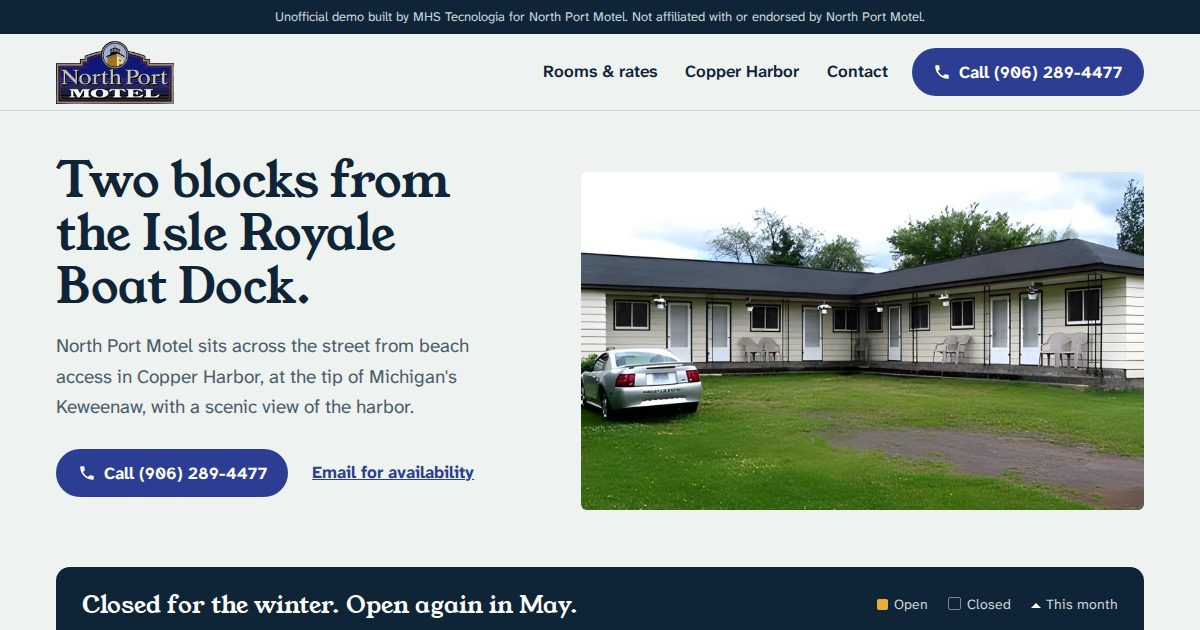
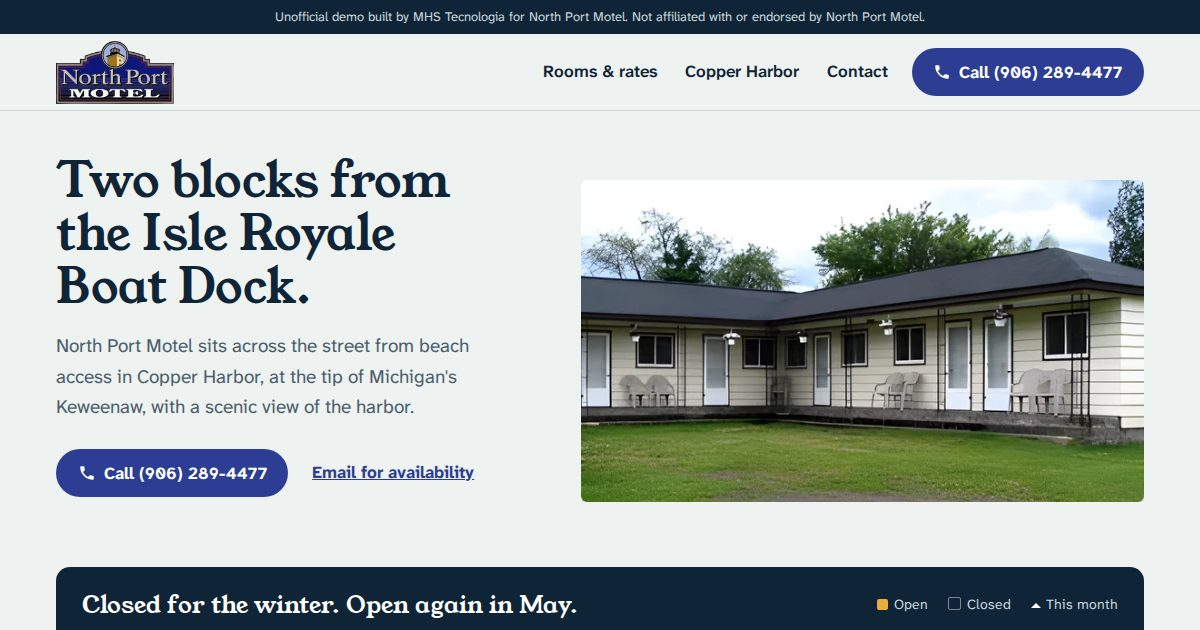
Previews: 135 ativos

Changed region(s): [[0.4625, 0.2714, 0.9558, 0.8143]]

diff --git a/northport-motel-copper-harbor-mi/index.html b/northport-motel-copper-harbor-mi/index.html
@@ -10,8 +10,7 @@
 <link rel="icon" href="favicon.png" type="image/png">
 <link rel="apple-touch-icon" href="apple-touch-icon.png">
 <link rel="preload" href="fonts/youngserif.woff2" as="font" type="font/woff2" crossorigin>
-<link rel="preload" as="image" href="img/exterior-m-640.webp" imagesrcset="img/exterior-m-640.webp 640w" imagesizes="calc(100vw - 32px)" media="(max-width: 760px)" fetchpriority="high">
-<link rel="preload" as="image" href="img/exterior-800.webp" media="(min-width: 761px)" fetchpriority="high">
+<link rel="preload" as="image" href="img/exterior-620.webp" imagesrcset="img/exterior-620.webp 620w" imagesizes="(max-width: 760px) calc(100vw - 32px), 563px" fetchpriority="high">
 <style>@font-face{font-family:"Young Serif";font-weight:400;font-display:swap;src:url(fonts/youngserif.woff2) format("woff2")}
 @font-face{font-family:"Atkinson Next";font-weight:400 700;font-display:swap;src:url(fonts/atkinson.woff2) format("woff2")}
 /* From their sign: the deep lake behind it, the royal blue field, the lit
@@ -92,7 +91,7 @@ p{margin:0 0 1rem}
 .photo figcaption{font-size:.875rem;color:var(--slate);margin-top:.6rem}
 @media (max-width:760px){
   .hero{padding:1.5rem 0 2.5rem}
-  .hero .wrap{grid-template-columns:1fr;grid-template-areas:'t' 'b' 'p';row-gap:1.25rem}
+  .hero .wrap{grid-template-columns:1fr;grid-template-areas:'t' 'p' 'b';row-gap:1rem}
   .hb .board{padding:.85rem .85rem .75rem}.hb .status{font-size:1.0625rem;margin-bottom:.6rem}.hb .months{padding-bottom:1.1rem}.hb .legend{font-size:.8125rem}
   .hero h1{font-size:2.1rem;margin-bottom:.75rem}
   .lede{font-size:1rem;line-height:1.55;margin-bottom:1rem}
@@ -140,10 +139,9 @@ p{margin:0 0 1rem}
 .page h1{font-size:clamp(2.1rem,4vw,3.2rem);margin-bottom:.9rem}
 .page .lede{margin-bottom:0}
 .grid2{display:grid;grid-template-columns:1fr 1fr;gap:1.25rem}
-.grid2.tall{grid-template-rows:auto auto}
-.grid2 .span{grid-row:span 2}
-.grid2 .span img{height:100%;object-fit:cover}
-@media (max-width:760px){.grid2{grid-template-columns:1fr}.grid2 .span{grid-row:auto}}
+.shower{margin-top:2.5rem;align-items:center}
+.shower p{color:var(--slate)}
+@media (max-width:760px){.grid2{grid-template-columns:1fr}.shower{margin-top:2rem}}
 .sub{display:grid;grid-template-columns:4fr 8fr;gap:3rem;align-items:baseline;margin-bottom:1.5rem}
 .sub p{color:var(--slate)}
 @media (max-width:760px){.sub{grid-template-columns:1fr;gap:1.25rem}}
@@ -153,8 +151,6 @@ p{margin:0 0 1rem}
 .big{font-family:var(--serif);font-size:clamp(2rem,5vw,3.25rem);line-height:1.1;color:var(--sign);text-decoration:none;display:inline-block;margin:.25rem 0 1rem}
 .big:hover{text-decoration:underline;text-decoration-thickness:2px}
 address{font-style:normal;font-size:1.1875rem;line-height:1.5}
-.sign{display:flex;gap:1.25rem;align-items:flex-end;margin-top:2rem}
-.sign img{border-radius:6px;width:241px}
 @media (max-width:760px){.contact{grid-template-columns:1fr;gap:2rem}}
 
 /* footer */
@@ -208,23 +204,20 @@ address{font-style:normal;font-size:1.1875rem;line-height:1.5}
   <p class="legend"><span class="lo">Open</span><span class="lc">Closed</span><span class="ln">This month</span></p>
 </div></div></div>
     <figure class="photo hp">
-      <picture>
-        <source media="(max-width: 760px)" srcset="img/exterior-m-640.webp 640w" sizes="calc(100vw - 32px)" width="640" height="480">
-        <img src="img/exterior-800.webp" width="800" height="480" alt="The North Port Motel: a single-story row of rooms with white doors and porch chairs, facing a lawn" fetchpriority="high">
-      </picture>
+      <img src="img/exterior-620.webp" width="620" height="354" alt="The North Port Motel: a single-story row of rooms with white doors and porch chairs, facing a lawn" fetchpriority="high">
     </figure>
   </div>
 </section>
 <section class="sec">
   <div class="wrap walk">
     <div>
-      <h2>Park once. Walk everywhere.</h2>
-      <p>The motel is centrally located, so the boat dock, the beach and town are all on foot from your door.</p>
+      <h2>Centrally located</h2>
+      <p>The motel is within short walking distance of shops and restaurants, and a short distance from the lighthouse ferry dock at the Marina.</p>
     </div>
     <ol class="route">
   <li><b>Across the street</b><span>Beach access, with a scenic view of the harbor</span></li>
   <li><b>2 blocks</b><span>The Isle Royale Boat Dock</span></li>
-  <li><b>A short walk</b><span>Shops and restaurants</span></li>
+  <li><b>Short walking distance</b><span>Shops and restaurants</span></li>
   <li><b>A short distance</b><span>The lighthouse ferry dock, at the Marina</span></li>
 </ol>
   </div>
@@ -243,7 +236,7 @@ address{font-style:normal;font-size:1.1875rem;line-height:1.5}
     </div>
     <div><table class="rates">
   <caption>Rates</caption>
-  <thead><tr><th scope="col">Room</th><th scope="col">Summer</th><th scope="col">Fall off season</th></tr></thead>
+  <thead><tr><th scope="col">Room</th><th scope="col">Summer &amp; fall</th><th scope="col">Off season</th></tr></thead>
   <tbody>
     <tr><th scope="row">Single</th><td>$65</td><td>$60</td></tr>
     <tr><th scope="row">Double</th><td>$75</td><td>$70</td></tr>

diff --git a/northport-motel-copper-harbor-mi/contact.html b/northport-motel-copper-harbor-mi/contact.html
@@ -90,7 +90,7 @@ p{margin:0 0 1rem}
 .photo figcaption{font-size:.875rem;color:var(--slate);margin-top:.6rem}
 @media (max-width:760px){
   .hero{padding:1.5rem 0 2.5rem}
-  .hero .wrap{grid-template-columns:1fr;grid-template-areas:'t' 'b' 'p';row-gap:1.25rem}
+  .hero .wrap{grid-template-columns:1fr;grid-template-areas:'t' 'p' 'b';row-gap:1rem}
   .hb .board{padding:.85rem .85rem .75rem}.hb .status{font-size:1.0625rem;margin-bottom:.6rem}.hb .months{padding-bottom:1.1rem}.hb .legend{font-size:.8125rem}
   .hero h1{font-size:2.1rem;margin-bottom:.75rem}
   .lede{font-size:1rem;line-height:1.55;margin-bottom:1rem}
@@ -138,10 +138,9 @@ p{margin:0 0 1rem}
 .page h1{font-size:clamp(2.1rem,4vw,3.2rem);margin-bottom:.9rem}
 .page .lede{margin-bottom:0}
 .grid2{display:grid;grid-template-columns:1fr 1fr;gap:1.25rem}
-.grid2.tall{grid-template-rows:auto auto}
-.grid2 .span{grid-row:span 2}
-.grid2 .span img{height:100%;object-fit:cover}
-@media (max-width:760px){.grid2{grid-template-columns:1fr}.grid2 .span{grid-row:auto}}
+.shower{margin-top:2.5rem;align-items:center}
+.shower p{color:var(--slate)}
+@media (max-width:760px){.grid2{grid-template-columns:1fr}.shower{margin-top:2rem}}
 .sub{display:grid;grid-template-columns:4fr 8fr;gap:3rem;align-items:baseline;margin-bottom:1.5rem}
 .sub p{color:var(--slate)}
 @media (max-width:760px){.sub{grid-template-columns:1fr;gap:1.25rem}}
@@ -151,8 +150,6 @@ p{margin:0 0 1rem}
 .big{font-family:var(--serif);font-size:clamp(2rem,5vw,3.25rem);line-height:1.1;color:var(--sign);text-decoration:none;display:inline-block;margin:.25rem 0 1rem}
 .big:hover{text-decoration:underline;text-decoration-thickness:2px}
 address{font-style:normal;font-size:1.1875rem;line-height:1.5}
-.sign{display:flex;gap:1.25rem;align-items:flex-end;margin-top:2rem}
-.sign img{border-radius:6px;width:241px}
 @media (max-width:760px){.contact{grid-template-columns:1fr;gap:2rem}}
 
 /* footer */
@@ -201,7 +198,6 @@ address{font-style:normal;font-size:1.1875rem;line-height:1.5}
   <ol class="months" aria-label="Months the motel is open"><li data-m="0"><span class="f" aria-hidden="true">Jan</span><span class="s" aria-hidden="true">J</span><span class="sr">January: closed</span></li><li data-m="1"><span class="f" aria-hidden="true">Feb</span><span class="s" aria-hidden="true">F</span><span class="sr">February: closed</span></li><li data-m="2"><span class="f" aria-hidden="true">Mar</span><span class="s" aria-hidden="true">M</span><span class="sr">March: closed</span></li><li data-m="3"><span class="f" aria-hidden="true">Apr</span><span class="s" aria-hidden="true">A</span><span class="sr">April: closed</span></li><li class="on" style="--i:0" data-m="4"><span class="f" aria-hidden="true">May</span><span class="s" aria-hidden="true">M</span><span class="sr">May: open</span></li><li class="on" style="--i:1" data-m="5"><span class="f" aria-hidden="true">Jun</span><span class="s" aria-hidden="true">J</span><span class="sr">June: open</span></li><li class="on" style="--i:2" data-m="6"><span class="f" aria-hidden="true">Jul</span><span class="s" aria-hidden="true">J</span><span class="sr">July: open</span></li><li class="on" style="--i:3" data-m="7"><span class="f" aria-hidden="true">Aug</span><span class="s" aria-hidden="true">A</span><span class="sr">August: open</span></li><li class="on" style="--i:4" data-m="8"><span class="f" aria-hidden="true">Sep</span><span class="s" aria-hidden="true">S</span><span class="sr">September: open</span></li><li class="on" style="--i:5" data-m="9"><span class="f" aria-hidden="true">Oct</span><span class="s" aria-hidden="true">O</span><span class="sr">October: open</span></li><li data-m="10"><span class="f" aria-hidden="true">Nov</span><span class="s" aria-hidden="true">N</span><span class="sr">November: closed</span></li><li data-m="11"><span class="f" aria-hidden="true">Dec</span><span class="s" aria-hidden="true">D</span><span class="sr">December: closed</span></li></ol>
   <p class="legend"><span class="lo">Open</span><span class="lc">Closed</span><span class="ln">This month</span></p>
 </div></div>
-      <figure class="photo sign"><img src="img/sign-241.webp" width="241" height="300" alt="The North Port Motel sign above a bed of purple flowers" loading="lazy"></figure>
     </div>
   </div>
 </section>

diff --git a/northport-motel-copper-harbor-mi/rooms.html b/northport-motel-copper-harbor-mi/rooms.html
@@ -90,7 +90,7 @@ p{margin:0 0 1rem}
 .photo figcaption{font-size:.875rem;color:var(--slate);margin-top:.6rem}
 @media (max-width:760px){
   .hero{padding:1.5rem 0 2.5rem}
-  .hero .wrap{grid-template-columns:1fr;grid-template-areas:'t' 'b' 'p';row-gap:1.25rem}
+  .hero .wrap{grid-template-columns:1fr;grid-template-areas:'t' 'p' 'b';row-gap:1rem}
   .hb .board{padding:.85rem .85rem .75rem}.hb .status{font-size:1.0625rem;margin-bottom:.6rem}.hb .months{padding-bottom:1.1rem}.hb .legend{font-size:.8125rem}
   .hero h1{font-size:2.1rem;margin-bottom:.75rem}
   .lede{font-size:1rem;line-height:1.55;margin-bottom:1rem}
@@ -138,10 +138,9 @@ p{margin:0 0 1rem}
 .page h1{font-size:clamp(2.1rem,4vw,3.2rem);margin-bottom:.9rem}
 .page .lede{margin-bottom:0}
 .grid2{display:grid;grid-template-columns:1fr 1fr;gap:1.25rem}
-.grid2.tall{grid-template-rows:auto auto}
-.grid2 .span{grid-row:span 2}
-.grid2 .span img{height:100%;object-fit:cover}
-@media (max-width:760px){.grid2{grid-template-columns:1fr}.grid2 .span{grid-row:auto}}
+.shower{margin-top:2.5rem;align-items:center}
+.shower p{color:var(--slate)}
+@media (max-width:760px){.grid2{grid-template-columns:1fr}.shower{margin-top:2rem}}
 .sub{display:grid;grid-template-columns:4fr 8fr;gap:3rem;align-items:baseline;margin-bottom:1.5rem}
 .sub p{color:var(--slate)}
 @media (max-width:760px){.sub{grid-template-columns:1fr;gap:1.25rem}}
@@ -151,8 +150,6 @@ p{margin:0 0 1rem}
 .big{font-family:var(--serif);font-size:clamp(2rem,5vw,3.25rem);line-height:1.1;color:var(--sign);text-decoration:none;display:inline-block;margin:.25rem 0 1rem}
 .big:hover{text-decoration:underline;text-decoration-thickness:2px}
 address{font-style:normal;font-size:1.1875rem;line-height:1.5}
-.sign{display:flex;gap:1.25rem;align-items:flex-end;margin-top:2rem}
-.sign img{border-radius:6px;width:241px}
 @media (max-width:760px){.contact{grid-template-columns:1fr;gap:2rem}}
 
 /* footer */
@@ -194,10 +191,13 @@ address{font-style:normal;font-size:1.1875rem;line-height:1.5}
 </section>
 <section class="sec" style="border-top:0">
   <div class="wrap">
-    <div class="grid2 tall">
+    <div class="grid2">
       <figure class="photo"><img src="img/room-a-800.webp" srcset="img/room-a-480.webp 480w, img/room-a-800.webp 800w" sizes="(max-width: 760px) calc(100vw - 32px), 542px" width="800" height="600" alt="A room with a queen bed, a desk and a wall mirror" loading="lazy" decoding="async"></figure>
-      <figure class="photo span"><img src="img/bath-600.webp" srcset="img/bath-360.webp 360w, img/bath-600.webp 600w" sizes="(max-width: 760px) calc(100vw - 32px), 542px" width="600" height="800" alt="A bathroom with a glass-enclosed shower stall and a small sink" loading="lazy" decoding="async"></figure>
       <figure class="photo"><img src="img/room-b-800.webp" srcset="img/room-b-480.webp 480w, img/room-b-800.webp 800w" sizes="(max-width: 760px) calc(100vw - 32px), 542px" width="800" height="600" alt="A room with a TV cabinet, a chair and a window" loading="lazy" decoding="async"></figure>
+    </div>
+    <div class="grid2 shower">
+      <div><h2>Glass-enclosed showers</h2><p>All rooms have glass-enclosed shower stalls.</p></div>
+      <figure class="photo"><img src="img/bath43-600.webp" srcset="img/bath43-360.webp 360w, img/bath43-600.webp 600w" sizes="(max-width: 760px) calc(100vw - 32px), 542px" width="600" height="450" alt="A bathroom with a glass-enclosed shower stall and a small sink" loading="lazy" decoding="async"></figure>
     </div>
   </div>
 </section>
@@ -217,7 +217,7 @@ address{font-style:normal;font-size:1.1875rem;line-height:1.5}
   <div class="wrap rooms">
     <div><table class="rates">
   <caption>Rates</caption>
-  <thead><tr><th scope="col">Room</th><th scope="col">Summer</th><th scope="col">Fall off season</th></tr></thead>
+  <thead><tr><th scope="col">Room</th><th scope="col">Summer &amp; fall</th><th scope="col">Off season</th></tr></thead>
   <tbody>
     <tr><th scope="row">Single</th><td>$65</td><td>$60</td></tr>
     <tr><th scope="row">Double</th><td>$75</td><td>$70</td></tr>

diff --git a/northport-motel-copper-harbor-mi/harbor.html b/northport-motel-copper-harbor-mi/harbor.html
@@ -90,7 +90,7 @@ p{margin:0 0 1rem}
 .photo figcaption{font-size:.875rem;color:var(--slate);margin-top:.6rem}
 @media (max-width:760px){
   .hero{padding:1.5rem 0 2.5rem}
-  .hero .wrap{grid-template-columns:1fr;grid-template-areas:'t' 'b' 'p';row-gap:1.25rem}
+  .hero .wrap{grid-template-columns:1fr;grid-template-areas:'t' 'p' 'b';row-gap:1rem}
   .hb .board{padding:.85rem .85rem .75rem}.hb .status{font-size:1.0625rem;margin-bottom:.6rem}.hb .months{padding-bottom:1.1rem}.hb .legend{font-size:.8125rem}
   .hero h1{font-size:2.1rem;margin-bottom:.75rem}
   .lede{font-size:1rem;line-height:1.55;margin-bottom:1rem}
@@ -138,10 +138,9 @@ p{margin:0 0 1rem}
 .page h1{font-size:clamp(2.1rem,4vw,3.2rem);margin-bottom:.9rem}
 .page .lede{margin-bottom:0}
 .grid2{display:grid;grid-template-columns:1fr 1fr;gap:1.25rem}
-.grid2.tall{grid-template-rows:auto auto}
-.grid2 .span{grid-row:span 2}
-.grid2 .span img{height:100%;object-fit:cover}
-@media (max-width:760px){.grid2{grid-template-columns:1fr}.grid2 .span{grid-row:auto}}
+.shower{margin-top:2.5rem;align-items:center}
+.shower p{color:var(--slate)}
+@media (max-width:760px){.grid2{grid-template-columns:1fr}.shower{margin-top:2rem}}
 .sub{display:grid;grid-template-columns:4fr 8fr;gap:3rem;align-items:baseline;margin-bottom:1.5rem}
 .sub p{color:var(--slate)}
 @media (max-width:760px){.sub{grid-template-columns:1fr;gap:1.25rem}}
@@ -151,8 +150,6 @@ p{margin:0 0 1rem}
 .big{font-family:var(--serif);font-size:clamp(2rem,5vw,3.25rem);line-height:1.1;color:var(--sign);text-decoration:none;display:inline-block;margin:.25rem 0 1rem}
 .big:hover{text-decoration:underline;text-decoration-thickness:2px}
 address{font-style:normal;font-size:1.1875rem;line-height:1.5}
-.sign{display:flex;gap:1.25rem;align-items:flex-end;margin-top:2rem}
-.sign img{border-radius:6px;width:241px}
 @media (max-width:760px){.contact{grid-template-columns:1fr;gap:2rem}}
 
 /* footer */
@@ -207,12 +204,12 @@ address{font-style:normal;font-size:1.1875rem;line-height:1.5}
   <div class="wrap walk">
     <div>
       <h2>From the motel</h2>
-      <p>North Port Motel is centrally located, within a short walk of shops and restaurants.</p>
+      <p>North Port Motel is centrally located, within short walking distance of shops and restaurants.</p>
     </div>
     <ol class="route">
   <li><b>Across the street</b><span>Beach access, with a scenic view of the harbor</span></li>
   <li><b>2 blocks</b><span>The Isle Royale Boat Dock</span></li>
-  <li><b>A short walk</b><span>Shops and restaurants</span></li>
+  <li><b>Short walking distance</b><span>Shops and restaurants</span></li>
   <li><b>A short distance</b><span>The lighthouse ferry dock, at the Marina</span></li>
 </ol>
   </div>
